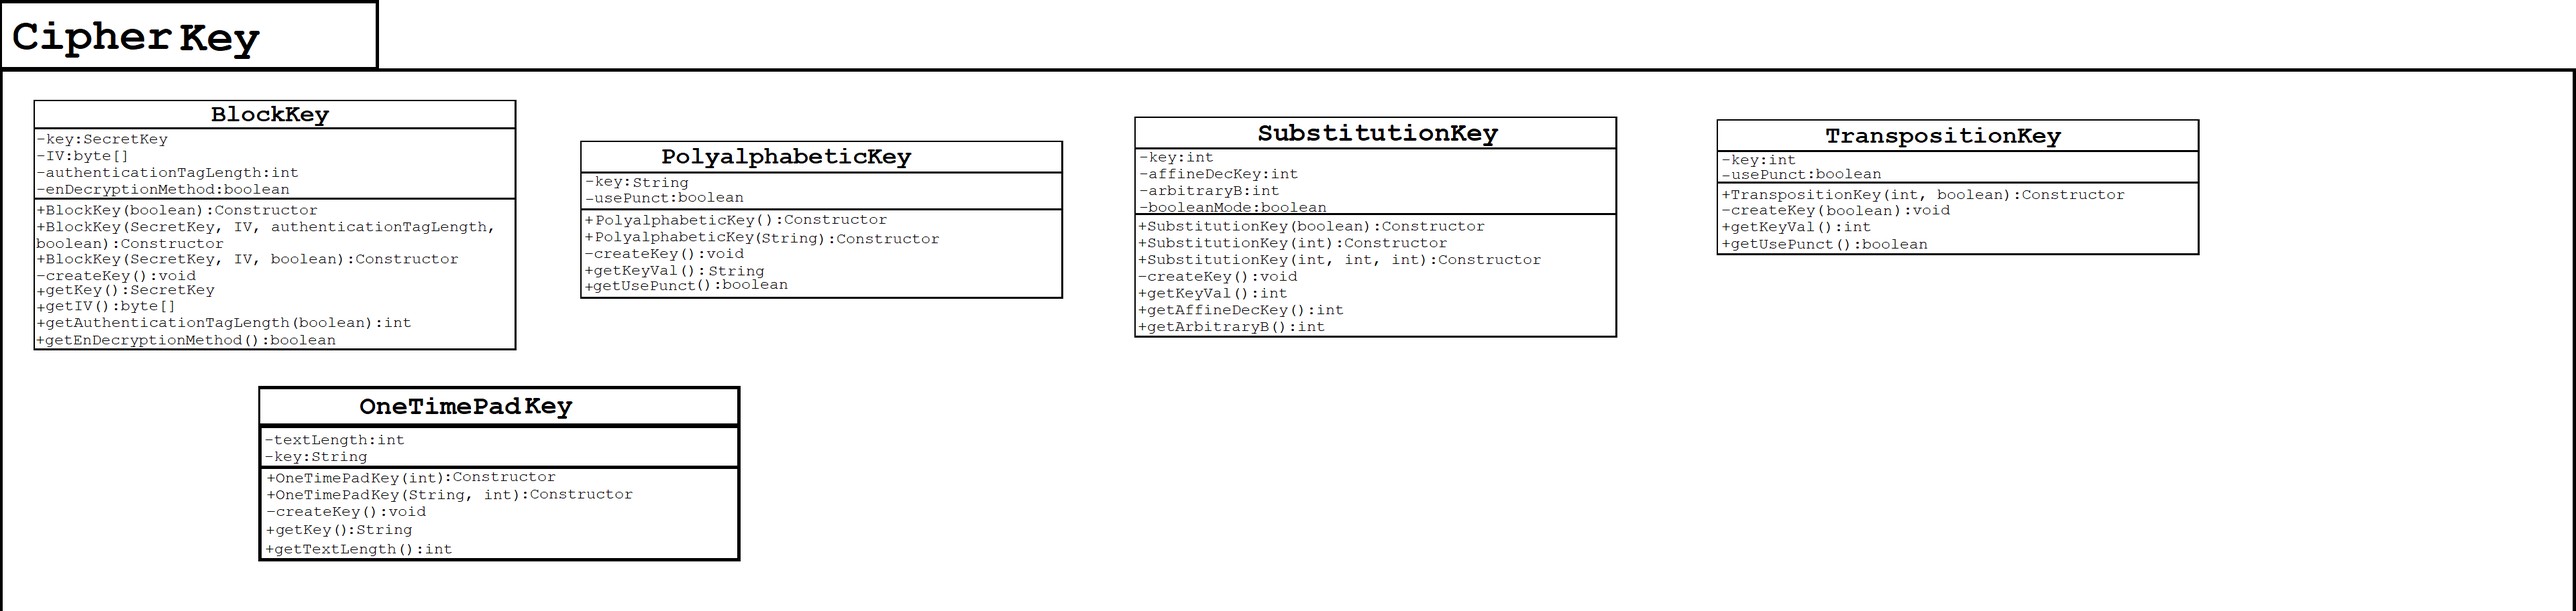
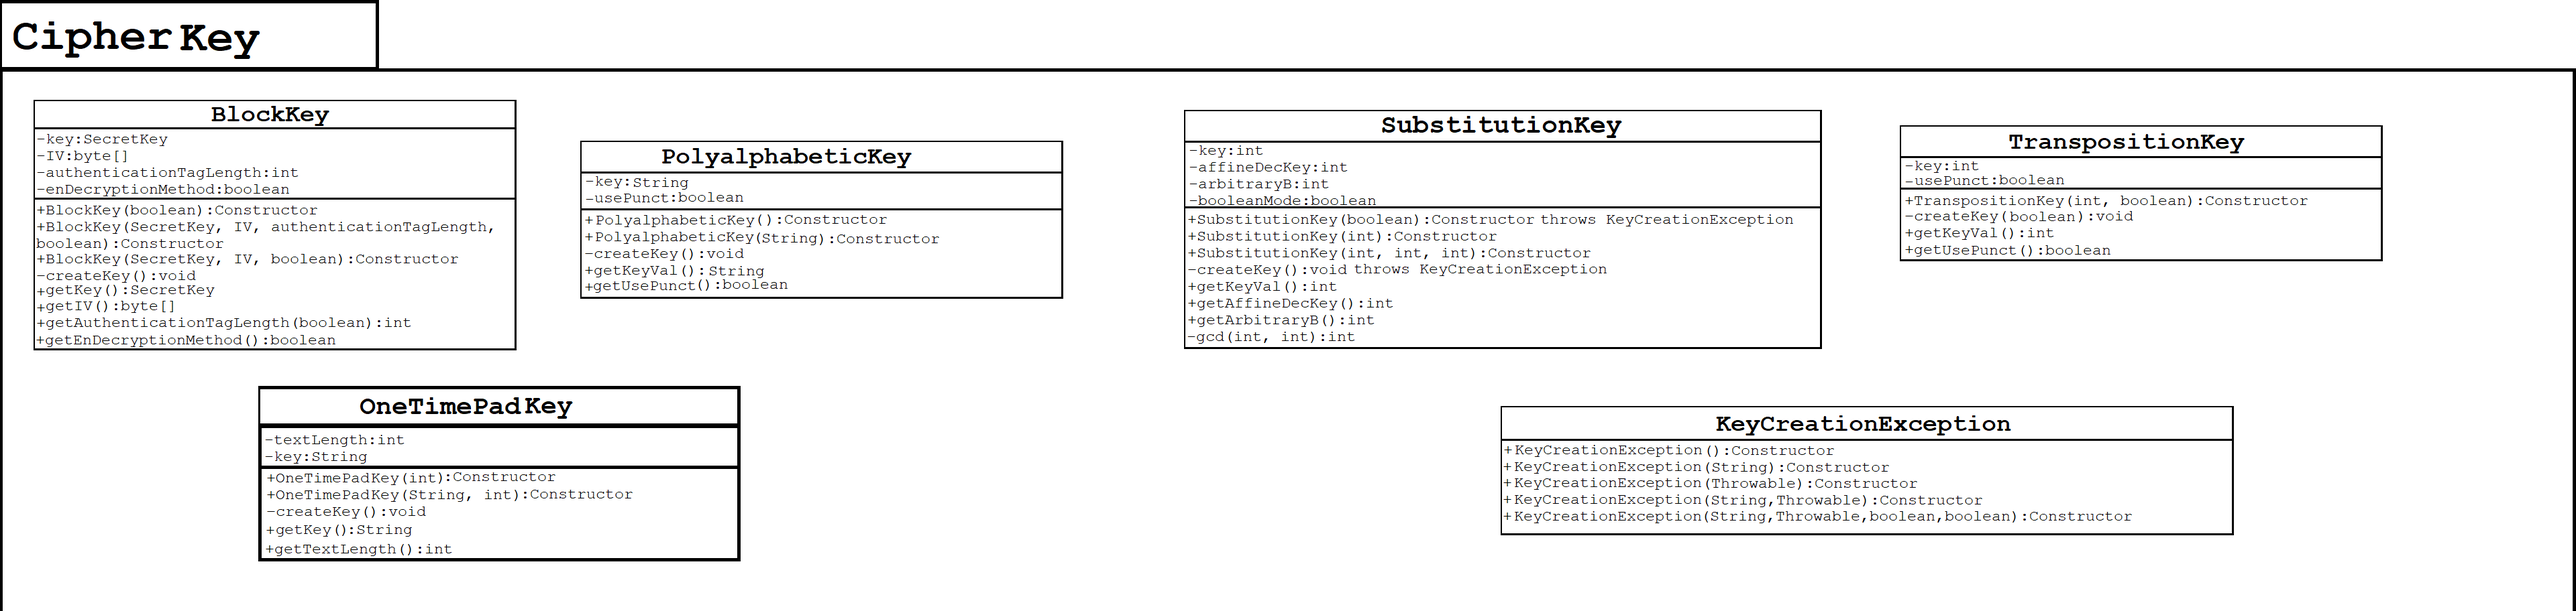
Made updates to some UML diagaram components, and completed the SubstitutionKey Java class.

Changed region(s): [[0.4375, 0.1842, 0.9062, 0.5833], [0.5938, 0.6754, 0.875, 0.8904]]

diff --git a/Encryptor Decryptor File Encryption/src/Encryptor Decryptor File Ecryption/CipherKeys/SubstitutionKey.java b/Encryptor Decryptor File Encryption/src/Encryptor Decryptor File Ecryption/CipherKeys/SubstitutionKey.java
@@ -1,9 +1,8 @@
-/**
- * 
- */
+/**/
 package CipherKeys;
 
 import java.security.SecureRandom;
+import java.math.BigInteger;
 
 /**
  * @author eon74
@@ -16,7 +15,7 @@ public class SubstitutionKey
 	private int arbitraryB;
 	private boolean booleanMode;
 	
-	public SubstitutionKey(boolean booleanMode)
+	public SubstitutionKey(boolean booleanMode) throws KeyCreationException
 	{
 		this.booleanMode = booleanMode;
 		createKey();
@@ -36,20 +35,48 @@ public class SubstitutionKey
 		booleanMode = true;
 	}
 	
-	private void createKey()
+	private void createKey() throws KeyCreationException
 	{
 		SecureRandom random = new SecureRandom();
 		if(booleanMode) {
 			int randomInteger = -1;
-			while((randomInteger > 1112064) && (randomInteger < 2) && (gcd(randomInteger, 1112064) != 1)) {
+			while((randomInteger > 1112064) || (randomInteger < 2) || (gcd(randomInteger, 1112064) != 1)) {
 				randomInteger = random.nextInt(2097152);
 			}
 			key = randomInteger;
-			
+			try
+			{
+				affineDecKey = (BigInteger.valueOf(key).modInverse(BigInteger.valueOf(1112064))).intValue();
+			}
+			catch(ArithmeticException e)
+			{
+				System.out.println("Internal program error.  ");
+				throw new KeyCreationException();
+			}
+			randomInteger = -1;
+			while((randomInteger > 1112064) || (randomInteger < 2) || (randomInteger == key) || (randomInteger == affineDecKey)) {
+				randomInteger = random.nextInt(2097152);
+			}
+			arbitraryB = randomInteger;
 		}
 		else {
 			key = random.nextInt();
 		}
+	}
+	
+	public int getKeyVal()
+	{
+		return key;
+	}
+	
+	public int getAffineDecKey()
+	{
+		return affineDecKey;
+	}
+	
+	public int getArbitraryB()
+	{
+		return arbitraryB;
 	}
 	
 	private int gcd(int a, int b)

diff --git a/Encryptor Decryptor File Encryption/src/Encryptor Decryptor File Ecryption/CipherKeys/KeyCreationException.java b/Encryptor Decryptor File Encryption/src/Encryptor Decryptor File Ecryption/CipherKeys/KeyCreationException.java
@@ -1,0 +1,30 @@
+package CipherKeys;
+
+public class KeyCreationException extends Exception {
+
+	public KeyCreationException() {
+		// TODO Auto-generated constructor stub
+	}
+
+	public KeyCreationException(String message) {
+		super(message);
+		// TODO Auto-generated constructor stub
+	}
+
+	public KeyCreationException(Throwable cause) {
+		super(cause);
+		// TODO Auto-generated constructor stub
+	}
+
+	public KeyCreationException(String message, Throwable cause) {
+		super(message, cause);
+		// TODO Auto-generated constructor stub
+	}
+
+	public KeyCreationException(String message, Throwable cause, boolean enableSuppression,
+			boolean writableStackTrace) {
+		super(message, cause, enableSuppression, writableStackTrace);
+		// TODO Auto-generated constructor stub
+	}
+
+}
